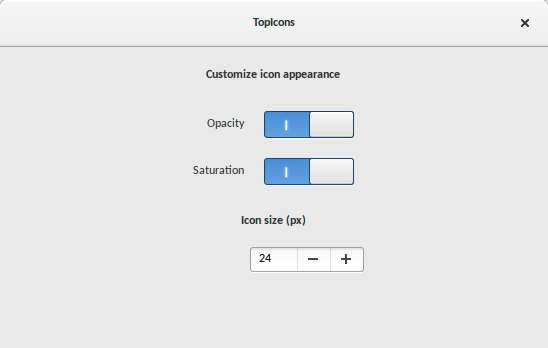
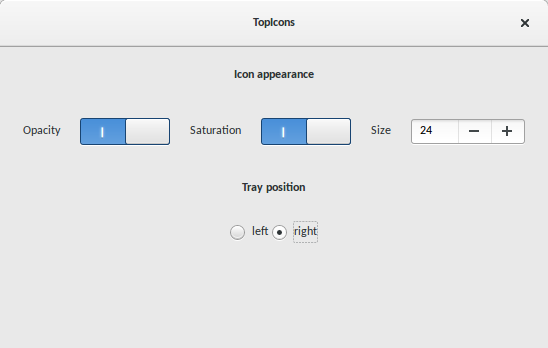
Fix #2: added a tray position setting

diff --git a/prefs.js b/prefs.js
@@ -26,51 +26,88 @@ const Settings = new Lang.Class({
     _init: function() {
         this.parent({halign: Gtk.Align.CENTER});
         this.set_orientation(Gtk.Orientation.VERTICAL);
-
         this._settings = Convenience.getSettings();
-
         this._changedPermitted = false;
-            let label = new Gtk.Label({
-                label: '<b>' + _("Customize icon appearance") + '</b>',
-                use_markup: true,
-                halign: Gtk.Align.CENTER,
-                margin_top: 20, margin_bottom: 20
-            });
-            this.add(label);
+        
+        // Appearance
+        let label = new Gtk.Label({
+            label: '<b>' + _("Icon appearance") + '</b>',
+            use_markup: true,
+            halign: Gtk.Align.CENTER,
+            margin_top: 20, margin_bottom: 20
+        });
+        this.add(label);
 
-            add_bool_option(this, 'icon-opacity', "Opacity");
-            add_bool_option(this, 'icon-saturation', "Saturation");
+        // Opacity & Saturation
+        let hbox = new Gtk.Box({orientation: Gtk.Orientation.HORIZONTAL, margin: 7});
+        add_bool_option(this, 'icon-opacity', "Opacity",hbox);
+        add_bool_option(this, 'icon-saturation', "Saturation", hbox);
+        // Size
+        let box = new Gtk.Box({
+            orientation: Gtk.Orientation.HORIZONTAL,
+            margin: 10,
+            spacing: 20
+        });
+        let label = new Gtk.Label({label: _("Size"), xalign: 0});
+        let iconSizeWidget = new Gtk.SpinButton({halign:Gtk.Align.END});
+            iconSizeWidget.set_sensitive(true);
+            iconSizeWidget.set_range(0, 32);
+            iconSizeWidget.set_value(this._settings.get_int('icon-size'));
+            iconSizeWidget.set_increments(1, 2);
+            iconSizeWidget.connect('value-changed', Lang.bind(this, function(button){
+                let s = button.get_value_as_int();
+                this._settings.set_int('icon-size', s);
+                Main.refreshSize();
+         }));
+        box.pack_start(label, true, true, 0);
+        box.add(iconSizeWidget);
+        hbox.add(box);
+
+        this.add(hbox)
+
+
+        // Position
+        let label = new Gtk.Label({
+            label: '<b>' + _("Tray position") + '</b>',
+            use_markup: true,
+            halign: Gtk.Align.CENTER,
+            margin_top: 20, margin_bottom: 20
+        });
+        this.add(label);
+        
+        let hbox = new Gtk.Box({orientation: Gtk.Orientation.HORIZONTAL, margin: 7, halign: Gtk.Align.CENTER});
+        let positions = {'left': N_("left"), 'right': N_("right"),}
+        let currentPos = this._settings.get_string('tray-pos');
+        
+        let radio = null;
+        for (let pos in positions) {
+          let position = pos;
+          let name = Gettext.gettext(positions[pos]);
+          
+  
+          radio = new Gtk.RadioButton({ group: radio, label: name, halign: Gtk.Align.CENTER });
+          radio.connect('toggled', Lang.bind(this, function(widget) {
+            if (widget.active)
+              this._settings.set_string('tray-pos', position);
+           }));
+        hbox.add(radio);
+           
+           
+           if (pos == currentPos)
+            radio.active = true;
+                
+            }
+        
+        this.add(hbox);    
         this._changedPermitted = true;
-
-        this._changedPermitted = false;
-            let label = new Gtk.Label({
-                label: '<b>' + _("Icon size (px)") + '</b>',
-                use_markup: true,
-                halign: Gtk.Align.CENTER,
-                margin_top: 20, margin_bottom: 20
-            });
-            this.add(label);
-
-            let iconSizeWidget = new Gtk.SpinButton({halign:Gtk.Align.END});
-                iconSizeWidget.set_sensitive(true);
-                iconSizeWidget.set_range(0, 32);
-                iconSizeWidget.set_value(this._settings.get_int('icon-size'));
-                iconSizeWidget.set_increments(1, 2);
-                iconSizeWidget.connect('value-changed', Lang.bind(this, function(button){
-                    let s = button.get_value_as_int();
-                    this._settings.set_int('icon-size', s);
-                    Main.refreshSize();
-                }));
-            this.add(iconSizeWidget);
-
-        this._changedPermitted = true;
+        
     }
 });
 
-function add_bool_option(widget, txtOption, txtLabel) {
+function add_bool_option(widget, txtOption, txtLabel, hbox) {
     let optionLabel = new Gtk.Label({
         label: _(txtLabel),
-        xalign: 1.0
+        xalign: 0
     });
     let optionSwitch = new Gtk.Switch({
         active: widget._settings.get_boolean(txtOption),
@@ -90,7 +127,7 @@ function add_bool_option(widget, txtOption, txtLabel) {
     box.pack_start(optionLabel, true, true, 0);
     box.add(optionSwitch);
 
-    widget.add(box);
+    hbox.add(box);
 }
 
 function buildPrefsWidget() {

diff --git a/extension.js b/extension.js
@@ -30,13 +30,10 @@ let separatorRight;
 
 function init() {
     settings = Convenience.getSettings();
-    settings.connect(
-            'changed::icon-opacity', Lang.bind(this, refreshOpacity));
-    settings.connect(
-            'changed::icon-saturation', Lang.bind(this, refreshSaturation));
-
-    // we need to refresh icons when user changes icon-size in settings
+    settings.connect('changed::icon-opacity', Lang.bind(this, refreshOpacity));
+    settings.connect('changed::icon-saturation', Lang.bind(this, refreshSaturation));
     settings.connect('changed::icon-size', Lang.bind(this, refreshSize));
+    settings.connect('changed::tray-pos', Lang.bind(this, refreshPos));
 
     tray = Main.legacyTray;
     trayIconImplementations = imports.ui.legacyTray.STANDARD_TRAY_ICON_IMPLEMENTATIONS;
@@ -66,6 +63,7 @@ function onTrayIconAdded(o, icon, role, delay) {
     iconSize = settings.get_int('icon-size');
     icon.set_size(iconSize, iconSize);
     icon.reactive = true;
+    let trayPosition = settings.get_string('tray-pos');
 
     let iconContainer = new St.Button({child: icon, visible: false});
     iconContainer.set_style('padding: 0px 4px;');
@@ -81,8 +79,14 @@ function onTrayIconAdded(o, icon, role, delay) {
     applyPreferences(icon);
     
     // Insert icon container before right separator
-    let index = Main.panel._rightBox.get_n_children() - 2;
-    Main.panel._rightBox.insert_child_at_index(iconContainer, index);
+    if (trayPosition == 'left') {
+        let index = Main.panel._leftBox.get_n_children() - 2;
+        Main.panel._leftBox.insert_child_at_index(iconContainer, index);
+    }
+    else {
+        let index = Main.panel._rightBox.get_n_children() - 2;
+        Main.panel._rightBox.insert_child_at_index(iconContainer, index);
+    }
 
     // Some icons won't appear on application start. As a workaround, 
     // we delay their visibility.
@@ -111,13 +115,20 @@ function onTrayIconRemoved(o, icon) {
 }
 
 function addSeperator() {
-    let separator = new St.Bin({visible: false});   
+    let separator = new St.Bin({visible: false}); 
+    let trayPosition = settings.get_string('tray-pos'); 
 
     // 8px = 12px (panel button padding) - 4px (icon container padding)
     separator.set_style('width: 8px;'); 
 
-    let index = Main.panel._rightBox.get_n_children() - 1;
-    Main.panel._rightBox.insert_child_at_index(separator, index);
+    if (trayPosition == 'left') {
+        let index = Main.panel._leftBox.get_n_children() - 1;
+        Main.panel._leftBox.insert_child_at_index(separator, index);
+    }
+    else {
+        let index = Main.panel._rightBox.get_n_children() - 1;
+        Main.panel._rightBox.insert_child_at_index(separator, index);
+    }
     
     return separator;
 }
@@ -258,4 +269,10 @@ function refreshSize() {
     iconSize = settings.get_int('icon-size');
     for (let i=0; i<icons.length; i++)
         icons[i].set_size(iconSize, iconSize);
+}
+
+function refreshPos() {
+    trayPosition = settings.get_string('tray-pos');
+    moveToTray();
+    moveToTop();
 }
